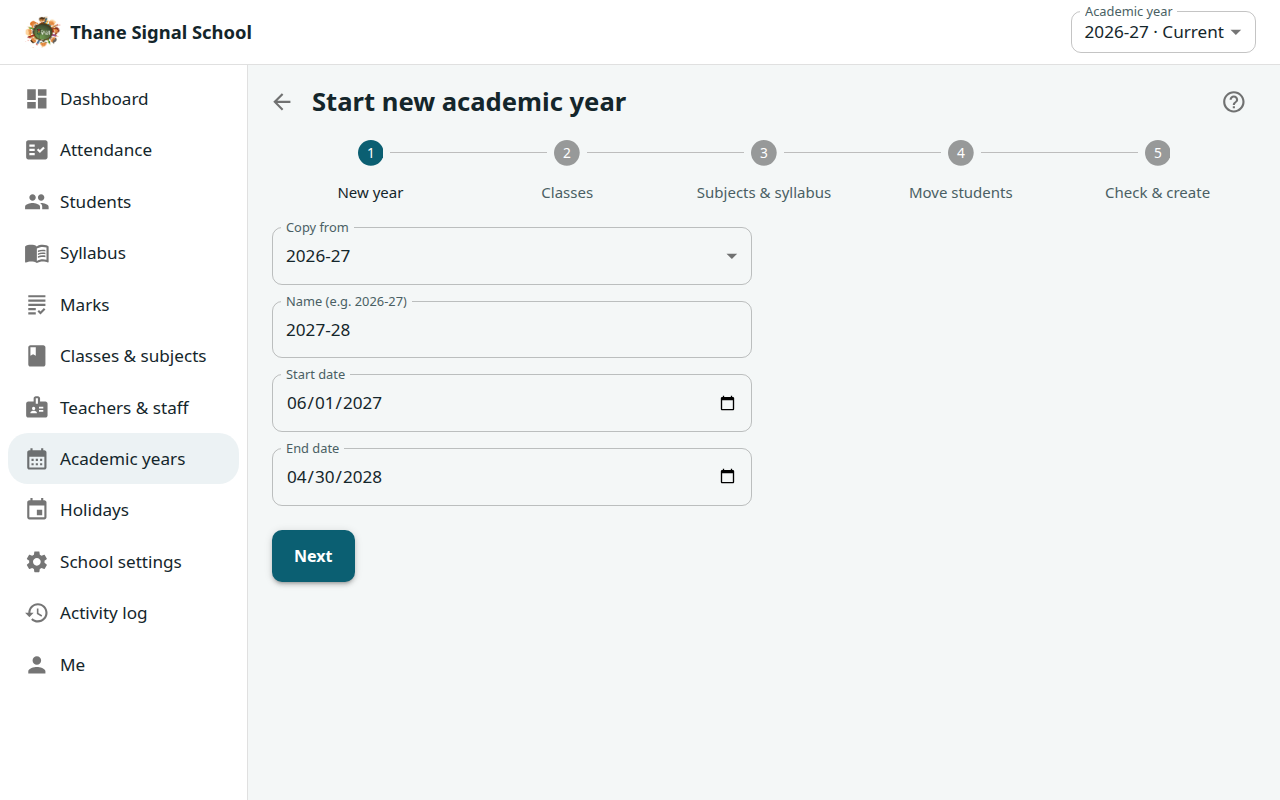
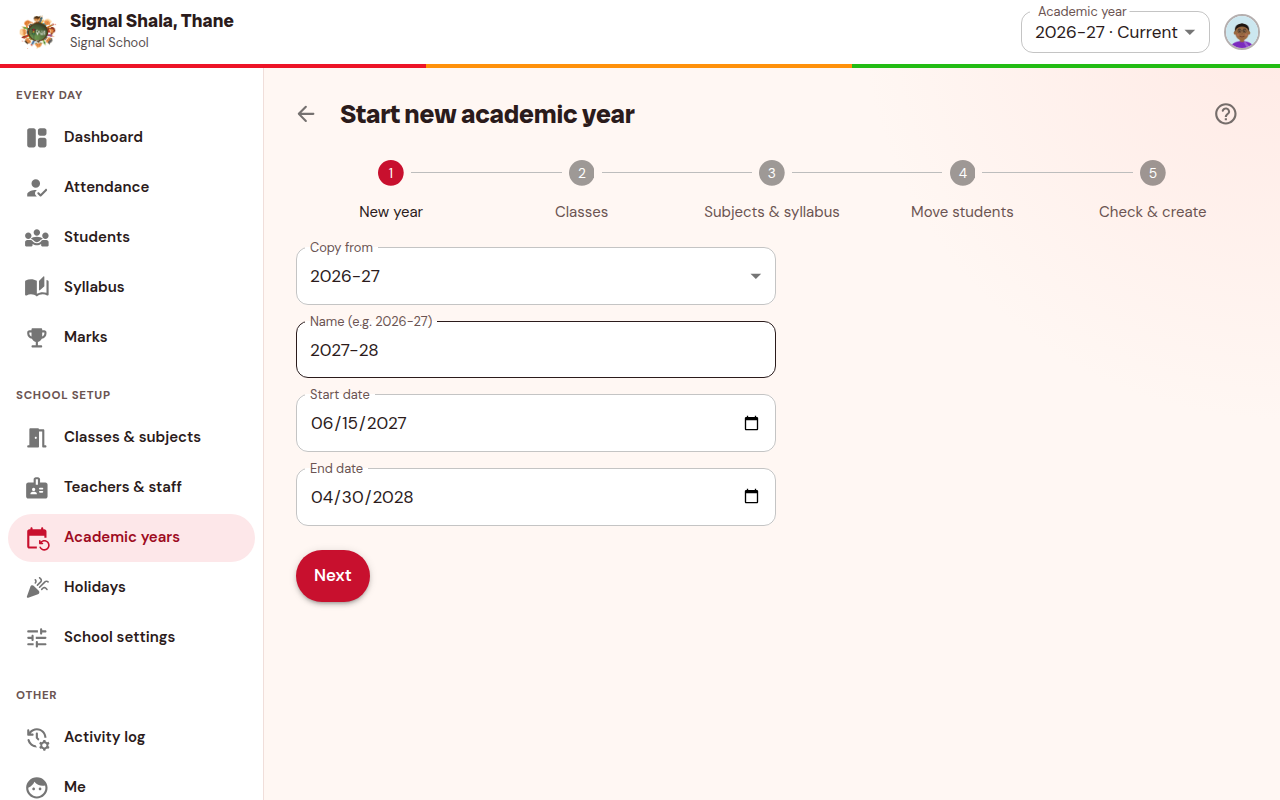
Seed option --school-day; docs: looks, screenshots, user guide

diff --git a/scripts/seed.js b/scripts/seed.js
@@ -4,6 +4,7 @@
 // DESTROYS all existing data in the target database. Deterministic: the same date gives the same data.
 //
 // Usage: npm run db:seed            (refuses NODE_ENV=production unless --force)
+//        npm run db:seed -- --school-day   today is a school day even on a Sunday (no weekly holiday; for screenshots)
 // Logins (password "password123"): owner@demo.test, principal@demo.test, clerk@demo.test, sunita@demo.test (class
 // teacher Std 1 A), rahul@demo.test (Maths and English, Std 5–7), imran@demo.test (Nerul).
 const { QueryTypes } = require('sequelize');
@@ -29,6 +30,7 @@ const clamp = (x, a, b) => Math.max(a, Math.min(b, x));
 const q = (sql, replacements, type = QueryTypes.SELECT) => m.sequelize.query(sql, { replacements, type });
 
 const TZ = 'Asia/Kolkata';
+const SCHOOL_DAY = process.argv.includes('--school-day');
 const today = todayIn(TZ);
 const yesterday = addDays(today, -1);
 const startYear = Number(today.slice(0, 4)) - (Number(today.slice(5, 7)) < 6 ? 1 : 0);
@@ -362,7 +364,7 @@ async function buildSchool({ school, users, yearCount, gradeNames, size, lateJoi
 
   // Today: most classes have already taken attendance; two are still waiting (one is Std 1 A, for trying it out).
   const isSchoolDay =
-    new Date(`${today}T00:00:00Z`).getUTCDay() !== 0 &&
+    (SCHOOL_DAY || new Date(`${today}T00:00:00Z`).getUTCDay() !== 0) &&
     today >= current.startDate &&
     !(await m.Holiday.findOne({ where: { schoolId: school.id, date: today } }));
   if (isSchoolDay) {
@@ -531,6 +533,7 @@ async function seed() {
     grPrefix: 'SS-',
     defaultLanguage: 'mr',
     theme: 'signal',
+    ...(SCHOOL_DAY && { weeklyOffs: [] }),
   });
   const nerul = await m.School.create({
     organizationId: org.id,
@@ -540,6 +543,7 @@ async function seed() {
     grPrefix: 'SN-',
     defaultLanguage: 'mr',
     theme: 'marigold',
+    ...(SCHOOL_DAY && { weeklyOffs: [] }),
   });
   const users = await makeUsers(org, pw, { thane, nerul });
 

diff --git a/docs/user-guide.md b/docs/user-guide.md
@@ -10,6 +10,8 @@ your language on the login screen or under **Me**. Everything below works the sa
 2. Open the app link, tap your language, type the number and password, tap **Log in**.
 3. Choose your own password (at least 8 letters/numbers) and type it twice. Done — next time you stay logged in.
 4. Tip: in Chrome tap **⋮ → Add to Home screen** to open the app like any other app, even without internet.
+5. At the bottom of the screen are **Today**, **Attendance**, **Students**, **Syllabus** and **More** (marks, your
+   profile and the rest). On a computer the same list is on the left.
 
 ### Take attendance (every morning)
 1. **Today** shows your classes. Tap **Take attendance** on your class.
@@ -93,6 +95,11 @@ two-week attendance trend, syllabus progress, children who need a doctor, and bi
 teachers → move students (promote, keep in same class, left, completed school) → check and create. You can create it
 early and make it current on the first day. Old years stay readable from the year switcher at the top; they cannot be
 changed unless you **Unlock** them for a short time with a reason.
+
+### The look of the app
+**School settings → Look**. Tap a look to see it on your own screen first (nobody else sees it yet), then press
+**Use for the whole school**. Every teacher's phone shows it the next time they open the app. *Easy to read* has black
+letters on white, thick lines and bigger letters, for teachers with weak eyes or for use in bright sunlight.
 
 ### Who changed what?
 **Activity log** → choose a person and/or a kind of change (attendance, students, staff …). Use **Older** to go back in

diff --git a/README.md b/README.md
@@ -16,7 +16,13 @@ Node.js 22 · Express 5 · PostgreSQL 16 (Sequelize, SQL migrations) · zod · J
 |---|---|---|
 | <img src="docs/screenshots/desktop-dashboard.png" width="320" alt="Dashboard with children absent several days in a row"> | <img src="docs/screenshots/desktop-student-profile.png" width="320" alt="Student profile with tabs"> | <img src="docs/screenshots/desktop-new-year-wizard.png" width="320" alt="Five-step new academic year wizard"> |
 
-Screenshots use demo data (`npm run db:seed`) and are regenerated with `npm run screenshots` in the web repo.
+The principal picks the school's **look** (School settings → Look): Signal Shala (default), Blackboard, Notebook,
+Marigold, Calm teal or Easy to read; every look has its own colours, fonts, shapes and icons.
+
+<img src="docs/screenshots/looks.png" alt="Teacher home screen in the six looks">
+
+Screenshots use demo data (`npm run db:seed -- --school-day`) and are regenerated with `npm run screenshots` in the
+web repo.
 
 ## Run with Docker (whole app, one command)
 
